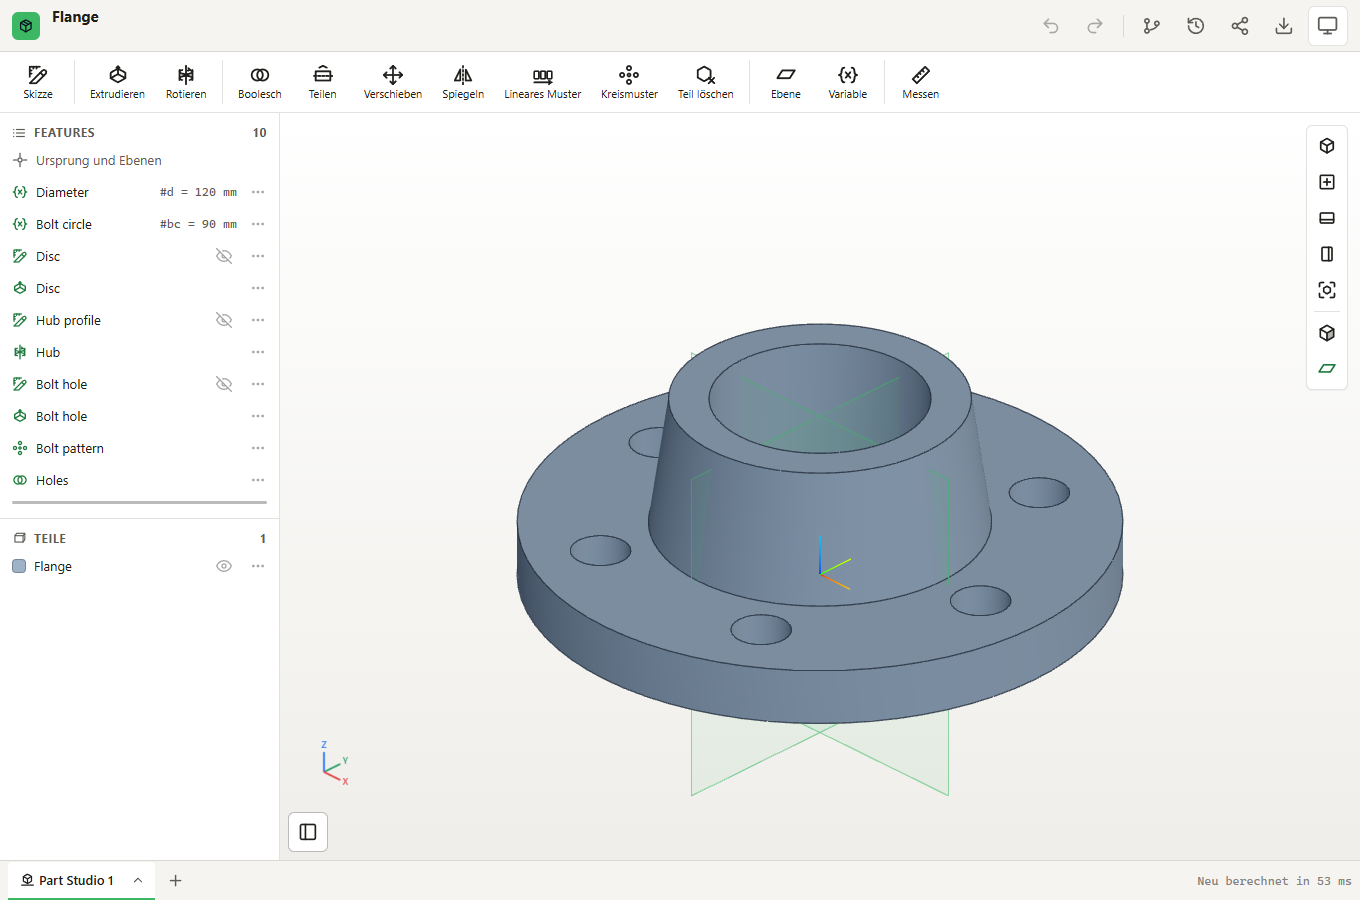
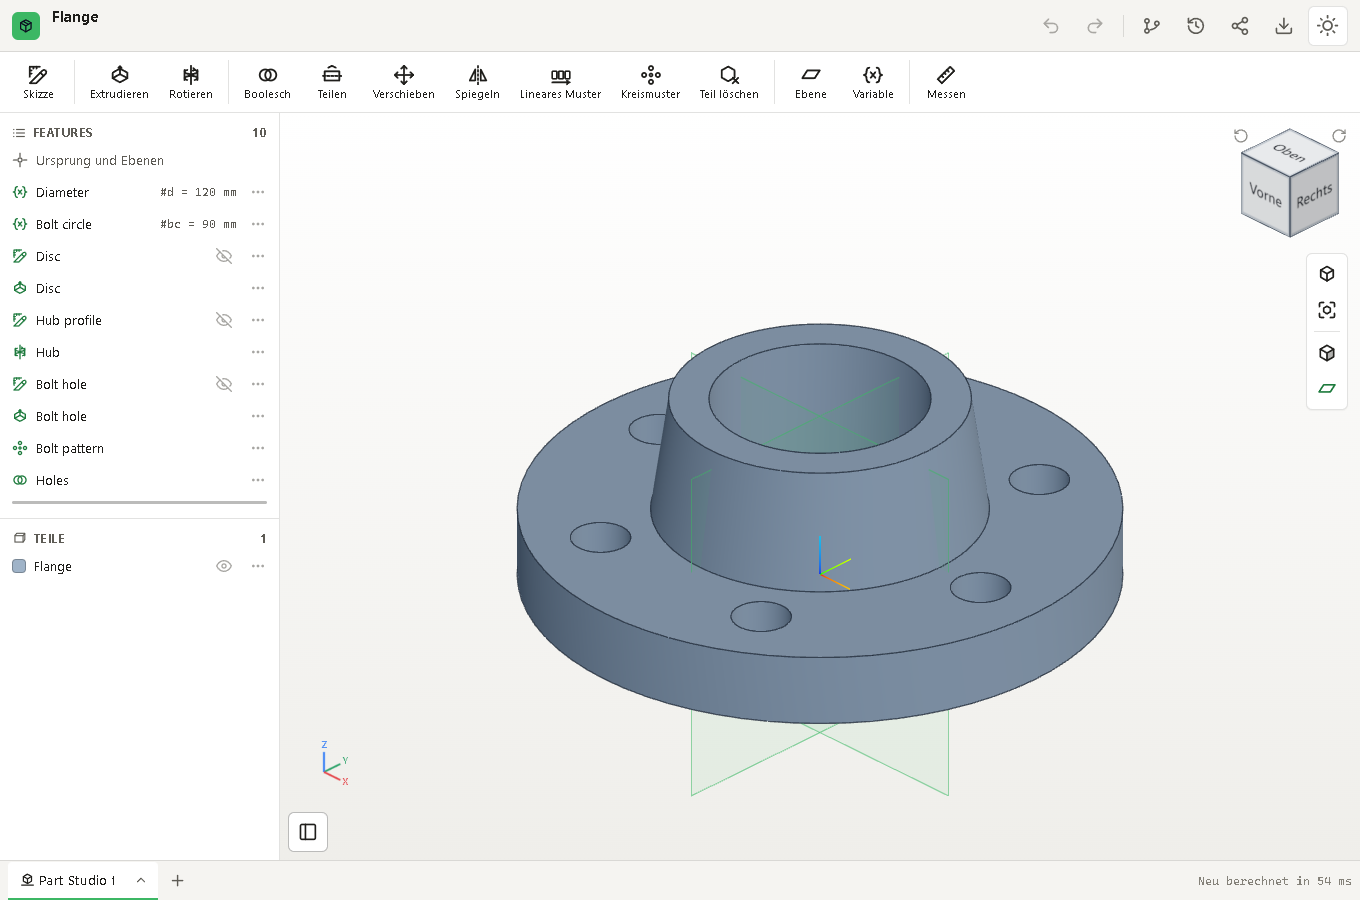
View cube in the corner of the 3D view, like the CAD tools on the web
- turns with the camera; the faces are named (Top, Front, Right, Back, Left, Bottom; en/de)
- a click on a face looks straight at it, a click on an edge or a corner looks across it (animated)
- the region under the pointer lights up; a drag on the cube turns the model
- two arrows turn the view 90 degrees about the direction of view
- follows light and dark mode; smaller on a phone
- the buttons Top / Front / Right are gone (the cube does it), Isometric and Fit stay

diff --git a/src/MatShape/wwwroot/js/cad/viewcube.js b/src/MatShape/wwwroot/js/cad/viewcube.js
@@ -1,0 +1,154 @@
+/* MatShape – the view cube in the corner of the 3D view (like the cube of the CAD tools on the web).
+   It always shows how the model is turned: its faces are named (Top, Front, Right, ...) and turn with the camera.
+   A click on a face looks straight at it, a click on an edge or a corner turns the view to look across it; a drag on the cube turns the model.
+   It has a three.js renderer of its own on a small canvas and draws whenever the main view draws. */
+
+import * as THREE from '/lib/three/three.module.js';
+import { isDark } from './viewport.js';
+import { t } from './util.js';
+
+const EDGE = 0.17;   // how far from the border a click counts as an edge or a corner (the cube is 1 wide)
+
+export class ViewCube {
+  constructor(canvas, viewport) {
+    this.canvas = canvas;
+    this.vp = viewport;
+    this.renderer = new THREE.WebGLRenderer({ canvas, antialias: true, alpha: true });
+    this.renderer.setPixelRatio(Math.min(window.devicePixelRatio || 1, 2));
+    this.renderer.setClearColor(0x000000, 0);
+    this.scene = new THREE.Scene();
+    this.camera = new THREE.OrthographicCamera(-0.9, 0.9, 0.9, -0.9, 0.1, 10);
+    this.raycaster = new THREE.Raycaster();
+
+    // the cube is built Y-up (so the names on the sides stand upright) and turned so that its local +Y is the world's +Z
+    this.group = new THREE.Group();
+    this.group.rotation.x = Math.PI / 2;
+    this.scene.add(this.group);
+    // light from the viewer, a little from the upper left: the three visible faces get three shades
+    this.scene.add(new THREE.AmbientLight(0xffffff, 1.7));
+    this.light = new THREE.DirectionalLight(0xffffff, 1.3);
+    this.scene.add(this.light);
+    this.build();
+
+    this.highlight = new THREE.Mesh(new THREE.BoxGeometry(1, 1, 1), new THREE.MeshBasicMaterial({ color: 0x3cb764, transparent: true, opacity: 0.55, depthWrite: false }));
+    this.highlight.visible = false;
+    this.scene.add(this.highlight);
+
+    this.bind();
+    new ResizeObserver(() => this.resize()).observe(canvas);
+    this.resize();
+    viewport.onRender = () => this.render();
+  }
+
+  /** The faces with their names, in the colours of the theme. */
+  build() {
+    this.group.clear();
+    const dark = isDark();
+    // three.js order of the materials: +x, -x, +y, -y, +z, -z (local) = right, left, top, bottom, front, back (world)
+    const names = ['right', 'left', 'top', 'bottom', 'front', 'back'];
+    this.materials?.forEach(m => { m.map?.dispose(); m.dispose(); });
+    this.materials = names.map(name => new THREE.MeshLambertMaterial({ map: this.label(t('View.Cube.' + name), dark) }));
+    const cube = new THREE.Mesh(new THREE.BoxGeometry(1, 1, 1), this.materials);
+    const edges = new THREE.LineSegments(new THREE.EdgesGeometry(cube.geometry), new THREE.LineBasicMaterial({ color: dark ? 0x9ca3af : 0x4b5563 }));
+    this.group.add(cube, edges);
+    this.cube = cube;
+    this.render();
+  }
+
+  label(text, dark) {
+    const size = 256;
+    const c = document.createElement('canvas');
+    c.width = c.height = size;
+    const ctx = c.getContext('2d');
+    ctx.fillStyle = dark ? '#2a2d33' : '#f4f6f8';
+    ctx.fillRect(0, 0, size, size);
+    ctx.strokeStyle = dark ? '#4b5563' : '#cbd2da';
+    ctx.lineWidth = 10;
+    ctx.strokeRect(5, 5, size - 10, size - 10);
+    ctx.fillStyle = dark ? '#e5e7eb' : '#1f2937';
+    let font = 64;
+    ctx.font = `600 ${font}px system-ui, "Segoe UI", sans-serif`;
+    while (ctx.measureText(text).width > size * 0.84 && font > 28) { font -= 4; ctx.font = `600 ${font}px system-ui, "Segoe UI", sans-serif`; }
+    ctx.textAlign = 'center';
+    ctx.textBaseline = 'middle';
+    ctx.fillText(text, size / 2, size / 2 + 4);
+    const texture = new THREE.CanvasTexture(c);
+    texture.colorSpace = THREE.SRGBColorSpace;
+    texture.anisotropy = 4;
+    return texture;
+  }
+
+  resize() {
+    const r = this.canvas.getBoundingClientRect();
+    if (r.width && r.height) this.renderer.setSize(r.width, r.height, false);
+    this.render();
+  }
+
+  render() {
+    // the same turn as the main camera, looking at the cube from outside
+    this.camera.quaternion.copy(this.vp.camera.quaternion);
+    this.camera.position.set(0, 0, 4).applyQuaternion(this.camera.quaternion);
+    this.camera.updateMatrixWorld();
+    this.light.position.set(-1.2, 2, 3).applyQuaternion(this.camera.quaternion);
+    this.renderer.render(this.scene, this.camera);
+  }
+
+  /** The face, edge or corner under the pointer as a direction with components -1, 0 or 1 (in world axes), or null. */
+  regionAt(e) {
+    const r = this.canvas.getBoundingClientRect();
+    const ndc = new THREE.Vector2(((e.clientX - r.left) / r.width) * 2 - 1, -((e.clientY - r.top) / r.height) * 2 + 1);
+    this.raycaster.setFromCamera(ndc, this.camera);
+    const hit = this.raycaster.intersectObject(this.cube, false)[0];
+    if (!hit) return null;
+    const p = hit.point; // world coordinates (the cube is centred on the origin, 1 wide)
+    const s = v => (Math.abs(v) > 0.5 - EDGE ? Math.sign(v) : 0);
+    return [s(p.x), s(p.y), s(p.z)];
+  }
+
+  showRegion(d) {
+    const key = d ? d.join(',') : null;
+    if (key === this.hoverKey) return;
+    this.hoverKey = key;
+    this.highlight.visible = !!d;
+    if (d) {
+      const size = d.map(v => (v ? EDGE + 0.012 : 1 - 2 * EDGE));
+      const pos = d.map(v => v * (0.5 - EDGE / 2 + 0.006));
+      this.highlight.scale.set(...size);
+      this.highlight.position.set(...pos);
+    }
+    this.canvas.style.cursor = d ? 'pointer' : '';
+    this.render();
+  }
+
+  bind() {
+    const c = this.canvas;
+    let drag = null;
+    c.addEventListener('contextmenu', e => e.preventDefault());
+    c.addEventListener('pointerdown', e => {
+      c.setPointerCapture(e.pointerId);
+      drag = { x: e.clientX, y: e.clientY, sx: e.clientX, sy: e.clientY, moved: false };
+    });
+    c.addEventListener('pointermove', e => {
+      if (!drag) { this.showRegion(this.regionAt(e)); return; }
+      if (!drag.moved && Math.hypot(e.clientX - drag.sx, e.clientY - drag.sy) > 3) { drag.moved = true; this.showRegion(null); }
+      if (drag.moved) this.vp.orbit((e.clientX - drag.x) * 1.4, (e.clientY - drag.y) * 1.4);
+      drag.x = e.clientX;
+      drag.y = e.clientY;
+    });
+    c.addEventListener('pointerup', e => {
+      const was = drag;
+      drag = null;
+      if (!was || was.moved) return;
+      const d = this.regionAt(e);
+      if (d) this.lookFrom(d);
+    });
+    c.addEventListener('pointercancel', () => { drag = null; });
+    c.addEventListener('pointerleave', () => { if (!drag) this.showRegion(null); });
+  }
+
+  /** Looks at the model from a direction of the cube; straight down or up keeps north up, everything else keeps Z up. */
+  lookFrom(d) {
+    const up = d[0] === 0 && d[1] === 0 ? [0, d[2] > 0 ? 1 : -1, 0] : [0, 0, 1];
+    this.vp.setView(null, true, d, up);
+  }
+}

diff --git a/src/MatShape/wwwroot/js/cad/app.js b/src/MatShape/wwwroot/js/cad/app.js
@@ -4,6 +4,7 @@
    Without a network the changes wait on this device (localStorage) and are sent when the network is back. */
 
 import { Viewport } from './viewport.js';
+import { ViewCube } from './viewcube.js';
 import { loadKernel, regenerate, dispose, FEATURES, properties } from './model.js';
 import { buildDialog } from './dialogs.js';
 import { Sketcher } from './sketcher.js';
@@ -71,6 +72,7 @@ function start() {
   const unit = () => UNITS[state.doc?.units] || 1;
 
   const viewport = new Viewport($('[data-canvas]'), $('[data-triad]'));
+  const viewCube = new ViewCube($('[data-viewcube]'), viewport);
   const sketcher = new Sketcher(viewport, { root: ui.sketchPanel, title: $('[data-sketch-title]'), body: $('[data-sketch-body]') }, ui.sketchTools, {
     status: text => setStatus(text),
     hud: text => showHud(text),
@@ -1047,6 +1049,8 @@ function start() {
   root.addEventListener('click', e => {
     const feature = e.target.closest('[data-feature]');
     if (feature && feature.closest('[data-toolbar="features"]')) { newFeature(feature.dataset.feature); return; }
+    const roll = e.target.closest('[data-roll]');
+    if (roll) { viewport.roll(Number(roll.dataset.roll)); return; }
     const view = e.target.closest('[data-view-set]');
     if (view) { viewport.setView(view.dataset.viewSet); return; }
     const exp = e.target.closest('[data-export]');
@@ -1117,7 +1121,7 @@ function start() {
   });
 
   // the theme changes the colours of the edges
-  new MutationObserver(() => { viewport.applyDisplay(); viewport.updatePlanes(); }).observe(document.documentElement, { attributes: true, attributeFilter: ['data-theme'] });
+  new MutationObserver(() => { viewport.applyDisplay(); viewport.updatePlanes(); viewCube.build(); }).observe(document.documentElement, { attributes: true, attributeFilter: ['data-theme'] });
   window.matchMedia('(prefers-color-scheme: dark)').addEventListener?.('change', () => viewport.applyDisplay());
 
   window.addEventListener('beforeunload', e => {

diff --git a/src/MatShape/wwwroot/css/studio.css b/src/MatShape/wwwroot/css/studio.css
@@ -235,3 +235,23 @@ html.ms-studiopage, .ms-studiobody { height: 100%; overflow: hidden; overscroll-
 @media (pointer: coarse) {
   .ms-vbtn { width: 42px; height: 42px; }
 }
+
+/* ---- the view cube (top right of the view) ------------------------------------------------------------------------- */
+.ms-cube { position: absolute; top: var(--mat-space-2); right: var(--mat-space-2); z-index: 5; width: 124px; height: 124px; }
+.ms-cube__canvas { display: block; width: 100%; height: 100%; touch-action: none; cursor: grab; }
+.ms-cube__canvas:active { cursor: grabbing; }
+.ms-cube__roll {
+  position: absolute; top: 2px; display: inline-grid; place-items: center; width: 26px; height: 26px; padding: 0; border: 0; border-radius: 50%;
+  background: transparent; color: var(--mat-text-muted); cursor: pointer; opacity: .7;
+}
+.ms-cube__roll:hover, .ms-cube__roll:focus-visible { opacity: 1; background: var(--mat-surface); color: var(--mat-text); box-shadow: var(--mat-shadow-1); outline: none; }
+.ms-cube__roll .mat-icon { width: 16px; height: 16px; }
+.ms-cube__roll--left { left: 0; }
+.ms-cube__roll--right { right: 0; }
+.ms-view .ms-viewtools { top: calc(var(--mat-space-2) + 132px); }
+.is-dialog .ms-hud, .is-sketching .ms-hud { right: calc(var(--mat-space-3) + 140px); }
+@media (max-width: 720px) {
+  .ms-cube { width: 96px; height: 96px; }
+  .ms-view .ms-viewtools { top: calc(var(--mat-space-2) + 102px); }
+}
+@media (pointer: coarse) { .ms-cube__roll { opacity: 1; width: 32px; height: 32px; } }

diff --git a/src/MatShape/wwwroot/js/cad/viewport.js b/src/MatShape/wwwroot/js/cad/viewport.js
@@ -517,6 +517,21 @@ export class Viewport {
   render() {
     this.renderer.render(this.scene, this.camera);
     this.drawTriad();
+    this.onRender?.();
+  }
+
+  /** Turns the view about the direction one looks in (degrees; positive = counter-clockwise on the screen). */
+  roll(degrees) {
+    const forward = new THREE.Vector3(0, 0, -1).applyQuaternion(this.camera.quaternion);
+    const target = new THREE.Quaternion().setFromAxisAngle(forward, -degrees * Math.PI / 180).multiply(this.camera.quaternion);
+    const from = this.camera.quaternion.clone(), start = performance.now();
+    const step = now => {
+      const k = Math.min(1, (now - start) / 220);
+      this.camera.quaternion.slerpQuaternions(from, target, k);
+      this.updateCamera();
+      if (k < 1) requestAnimationFrame(step);
+    };
+    requestAnimationFrame(step);
   }
 
   drawTriad() {

diff --git a/README.md b/README.md
@@ -27,7 +27,8 @@ Ein App-Container und PostgreSQL. Port **3939**.
 - Geometriekern: **[Manifold](https://github.com/elalish/manifold)** (WebAssembly, robuste Boolesche Operationen), Darstellung: **[three.js](https://threejs.org)** – beides als Kopie im Projekt, kein CDN
 
 **Ansehen, messen, ausgeben**
-- Orthografische 3D-Ansicht mit Achsenkreuz, Standardansichten, Einpassen, schattiert / ohne Kanten / durchsichtig, Ebenen ein/aus
+- **Ansichtswürfel** oben rechts wie bei OnShape: dreht sich mit der Ansicht, ein Klick auf Fläche, Kante oder Ecke dreht die Ansicht dorthin, Ziehen dreht das Modell, zwei Pfeile drehen um 90° um die Blickachse
+- Orthografische 3D-Ansicht mit Achsenkreuz, Isometrisch, Einpassen, schattiert / ohne Kanten / durchsichtig, Ebenen ein/aus
 - Maus: Ziehen oder rechts Ziehen dreht, Mitte oder Umschalt+Ziehen verschiebt, Mausrad zoomt zum Zeiger; **Touch**: ein Finger dreht, zwei verschieben und zoomen
 - **Teile** benennen, einfärben, ausblenden, isolieren; **Masseeigenschaften** (Volumen, Oberfläche, Größe); **Messen** von Abständen
 - **Export**: STL (3D-Druck), OBJ, PNG der Ansicht, Part Studio als JSON

diff --git a/CLAUDE.md b/CLAUDE.md
@@ -61,6 +61,7 @@ src/MatShape
     expr.js                  expressions with units and #variables (a value carries its length dimension; a plain number in a length field means the document unit)
     viewport.js              three.js: orthographic camera turning about the model, pointer/touch navigation, parts + edges + smooth normals, planes, sketches, picking, face highlight, snapshot
     sketcher.js              the sketch editor: tools, snapping, handles (connected ends move together), numbers in the panel, its own undo
+    viewcube.js              the view cube in the corner: turns with the camera, a click on a face/edge/corner looks from there, a drag turns the model (own small renderer)
     dialogs.js               the forms of the features (expression, choice, parts picked in the view, plane or flat face, sketch + profiles, revolve axis)
     export.js, util.js       STL/OBJ; texts t(), DOM el(), requests with the antiforgery header, swatches through the CSSOM
   wwwroot/css/app.css        accent + few app styles (prefix ms-);  studio.css = the editor page
